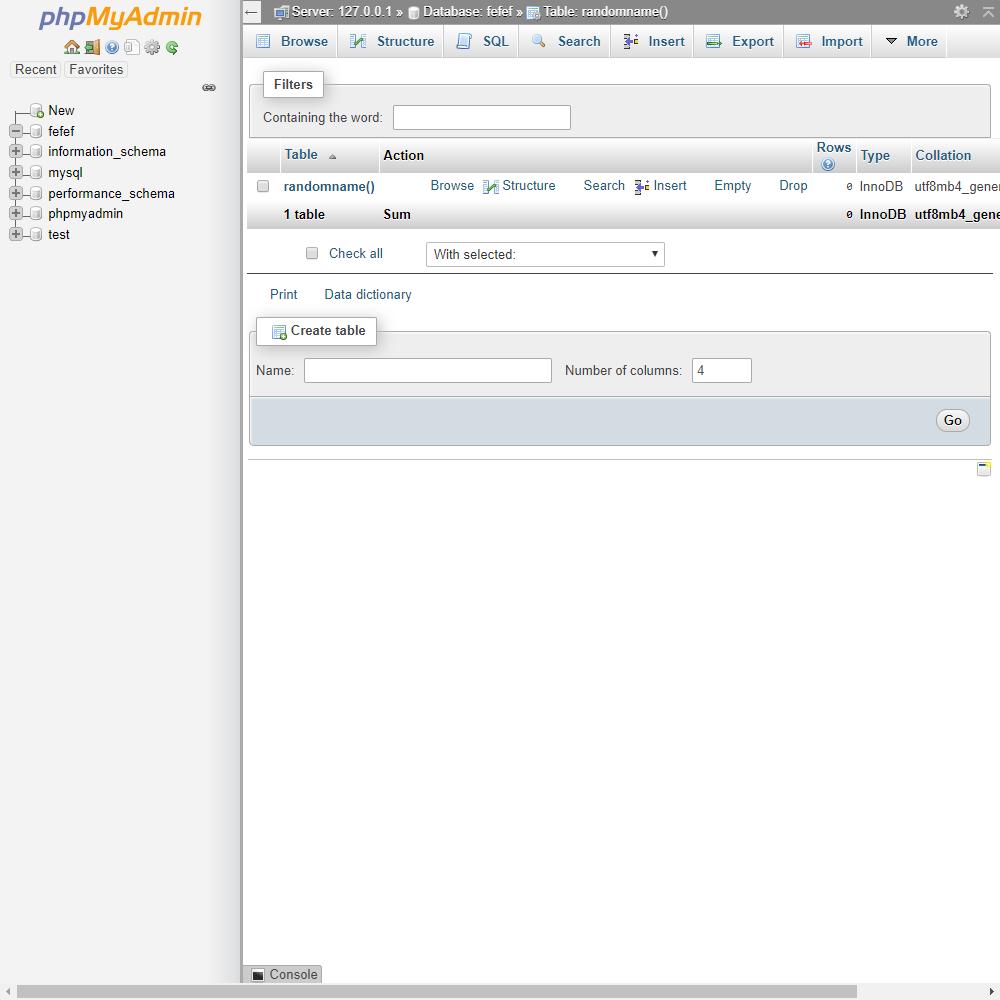
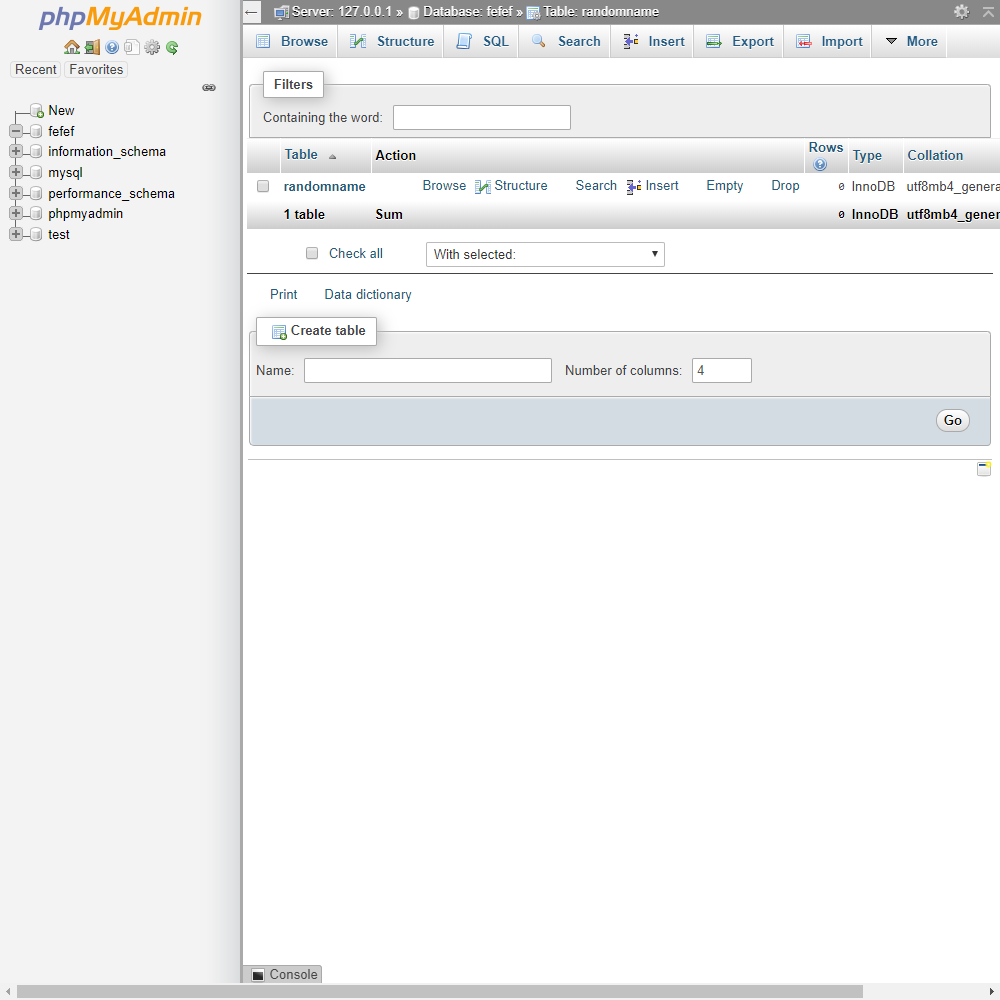
Page Object Model

diff --git a/test/createTableTest.js b/test/createTableTest.js
@@ -1,53 +1,31 @@
 const puppeteer = require('puppeteer');
-var assert = require('chai').assert;
+let assert = require('chai').assert;
+const createTableHelper = require('../Helpers/CreateTableHelper.js');
+const FillTableHelper = require('../Helpers/FillTableHelper');
 
-function randomName(){
 
-    var name;
-    var table = "table";
-    var digit = Math.floor(Math.random() * Math.floor(10));
-    name = table + digit;
-    return name;
-
-}
-
-async function createTableTest() {
+(async function createTableTest() {
 
     const browser = await puppeteer.launch({headless: false});
     const page = await browser.newPage();
     await page.goto('http://localhost/phpmyadmin/db_structure.php?server=1&db=fefef');
     await page.setViewport({width: 1000, height: 1000});
-    await page.click('#create_table_form_minimal > fieldset:nth-child(1) > div:nth-child(5)');
-
-    const setDigit = (async function () {
-       return {
-           typeTableName:   await page.keyboard.type('randomname()'),
-           typeColumnCount: await page.keyboard.press('Tab')
-               .then(() => page.keyboard.press('Backspace'))
-               .then(() => page.keyboard.type('1')),
-           submit: await page.click('#create_table_form_minimal > fieldset.tblFooters > input[type=submit]')
-       }
-    });
-
-    await setDigit();
-    const tapSave = ( async function () {
-            return {
-                typeColumnName: await page.click('#table_columns > tbody > tr:nth-child(2) > td:first-child')
-                    .then(() => page.keyboard.type('randomname()')),
-                tap: await page.click('#page_content > form > fieldset > input[type=submit]:last-child')
-            }
-    });
+    (async function () {
+        (await (new createTableHelper()).startTableHelper(page));
+    })();
 
     await page.waitForNavigation();
-    await tapSave();
+
+    (async function () {
+        (await (new FillTableHelper()).startFillTableHelper(page));
+    })();
+
+    var expected = 'randomname';
+    var searchValue = page.querySelector('#tablestructure > tbody > tr > th > label');
+    var actual = (searchValue.innerText || searchValue.textContent);
+    await page.waitForNavigation();
+    assert.equal(expected, actual);
     await page.waitForNavigation();
     await page.screenshot({path: './screens/createTableTest.png'});
-
-    var expected = 'randomname()';
-    const searchValue = await page.$eval('#row_tbl_1 > th > a', el => el.textContent);
-    assert.equal(expected, searchValue.trim());
-    await page.waitForNavigation();
     await browser.close();
-}
-
-createTableTest();
+})();

diff --git a/pages/createTablePage.js b/pages/createTablePage.js
@@ -1,0 +1,46 @@
+const FillColumn = require('../pages/fillColumn');
+
+class CreateTablePage {
+    constructor() {
+        this._tableName = '#create_table_form_minimal > fieldset:first-child > div:nth-child(5)';
+        this._numberOfColumns = '#create_table_form_minimal > fieldset:first-child > div:nth-child(6) > input[type=number]';
+        this._go = '#create_table_form_minimal > fieldset.tblFooters > input[type=submit]';
+    }
+
+    clickTable = (async function(page){
+         await page.click(this.tableName);
+    });
+
+     typeTableName = (async function(page){
+         await page.keyboard.type('randomname');
+     });
+
+     typeColumn = (async function (page) {
+        await page.keyboard.type('1');
+     });
+
+     clickColumn = (async function(page){
+         await page.click(this.numberOfColumns);
+     });
+
+     clickGo = (async function (page) {
+         await page.click(this.go);
+         return new FillColumn();
+     })
+
+    get tableName() {
+        return this._tableName;
+    }
+
+    get numberOfColumns() {
+        return this._numberOfColumns;
+    }
+
+
+     get go() {
+         return this._go;
+     }
+ }
+
+module.exports = CreateTablePage;
+

diff --git a/Helpers/CreateTableHelper.js b/Helpers/CreateTableHelper.js
@@ -1,0 +1,20 @@
+const CreateTablePage = require('../pages/createTablePage.js');
+const FillColumn = require('../pages/fillColumn');
+class CreateTableHelper{
+    constructor() {
+    }
+
+    async startTableHelper(page) {
+        let tableHelper = new CreateTablePage();
+        await tableHelper.clickTable(page);
+        await tableHelper.typeTableName(page);
+        await tableHelper.clickColumn(page);
+        await tableHelper.clickColumn(page)
+            .then(() => page.keyboard.press('Backspace'))
+            .then(() => tableHelper.typeColumn(page));
+        await tableHelper.clickGo(page);
+        return new FillColumn();
+    }
+}
+
+module.exports = CreateTableHelper;

diff --git a/pages/fillColumn.js b/pages/fillColumn.js
@@ -1,0 +1,28 @@
+class FillColumn {
+    constructor() {
+        this._name = '#table_columns > tbody > tr:nth-child(2) > td:first-child';
+        this._saveButton = '#page_content > form > fieldset > input[type=submit]:last-child';
+    }
+
+    nameClick = ( async function(page){
+       await page.click(this.name);
+    });
+
+    nameType = (async function(page){
+        await page.keyboard.type('randomname');
+    });
+
+    saveButtonClick = ( async function(page){
+        await page.click(this.saveButton);
+    });
+
+    get name() {
+        return this._name;
+    }
+
+    get saveButton() {
+        return this._saveButton;
+    }
+}
+
+module.exports = FillColumn;

diff --git a/Helpers/FillTableHelper.js b/Helpers/FillTableHelper.js
@@ -1,0 +1,14 @@
+const FillColumn = require('../pages/fillColumn');
+class FillTableHelper{
+    constructor() {
+    }
+
+    async startFillTableHelper(page) {
+        let fillTableColumn = new FillColumn();
+        await fillTableColumn.nameClick(page);
+        await fillTableColumn.nameType(page);
+        await fillTableColumn.saveButtonClick(page);
+    }
+}
+
+module.exports = FillTableHelper;
